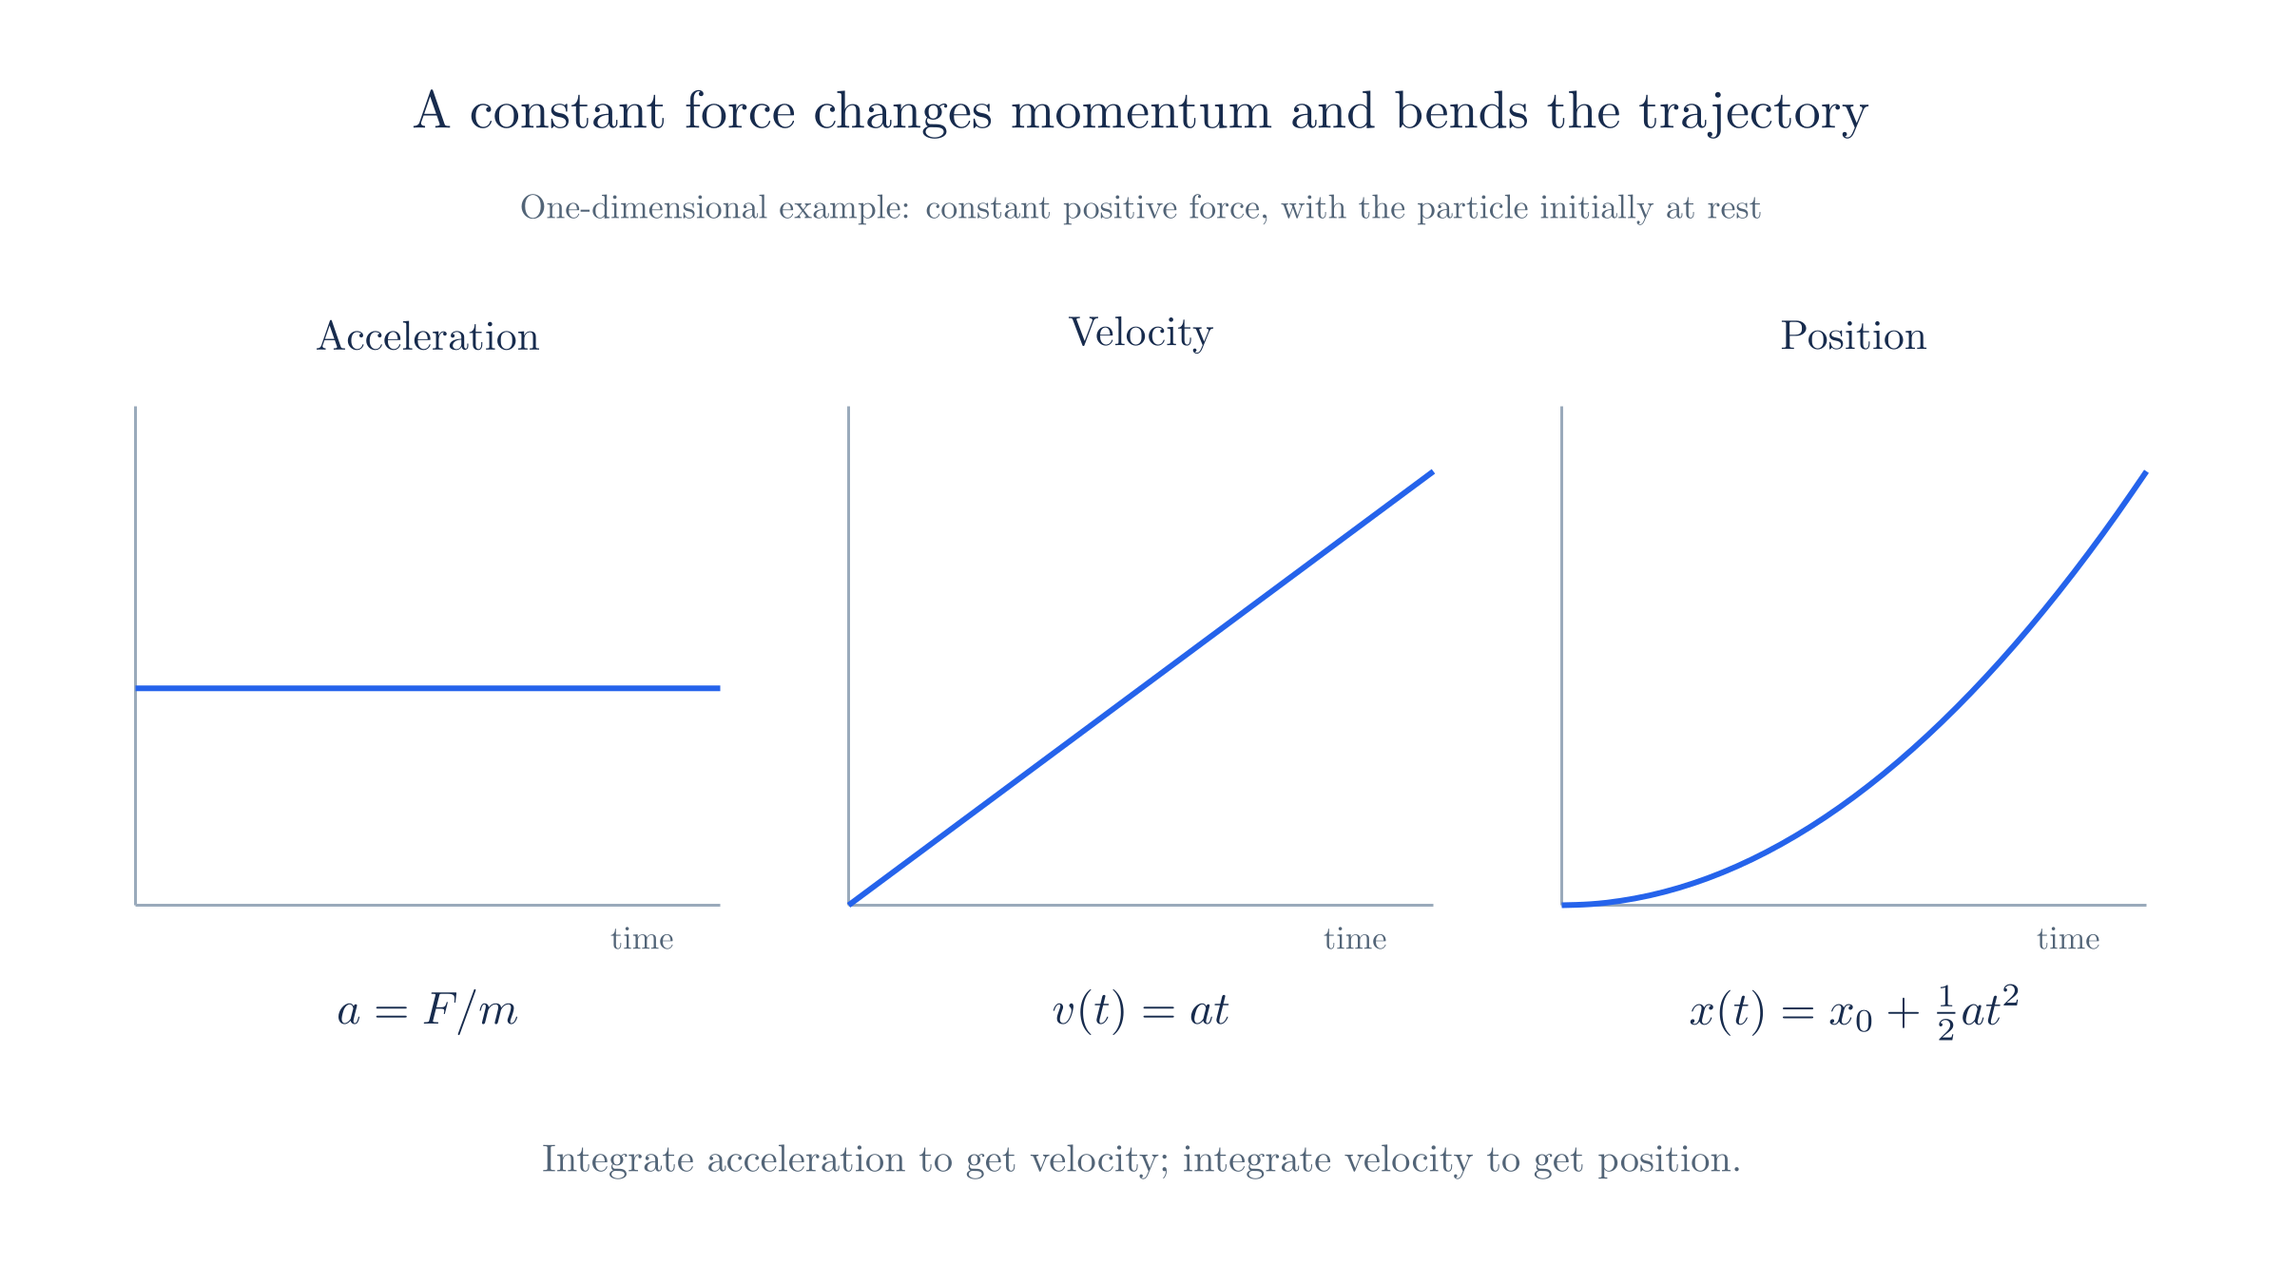
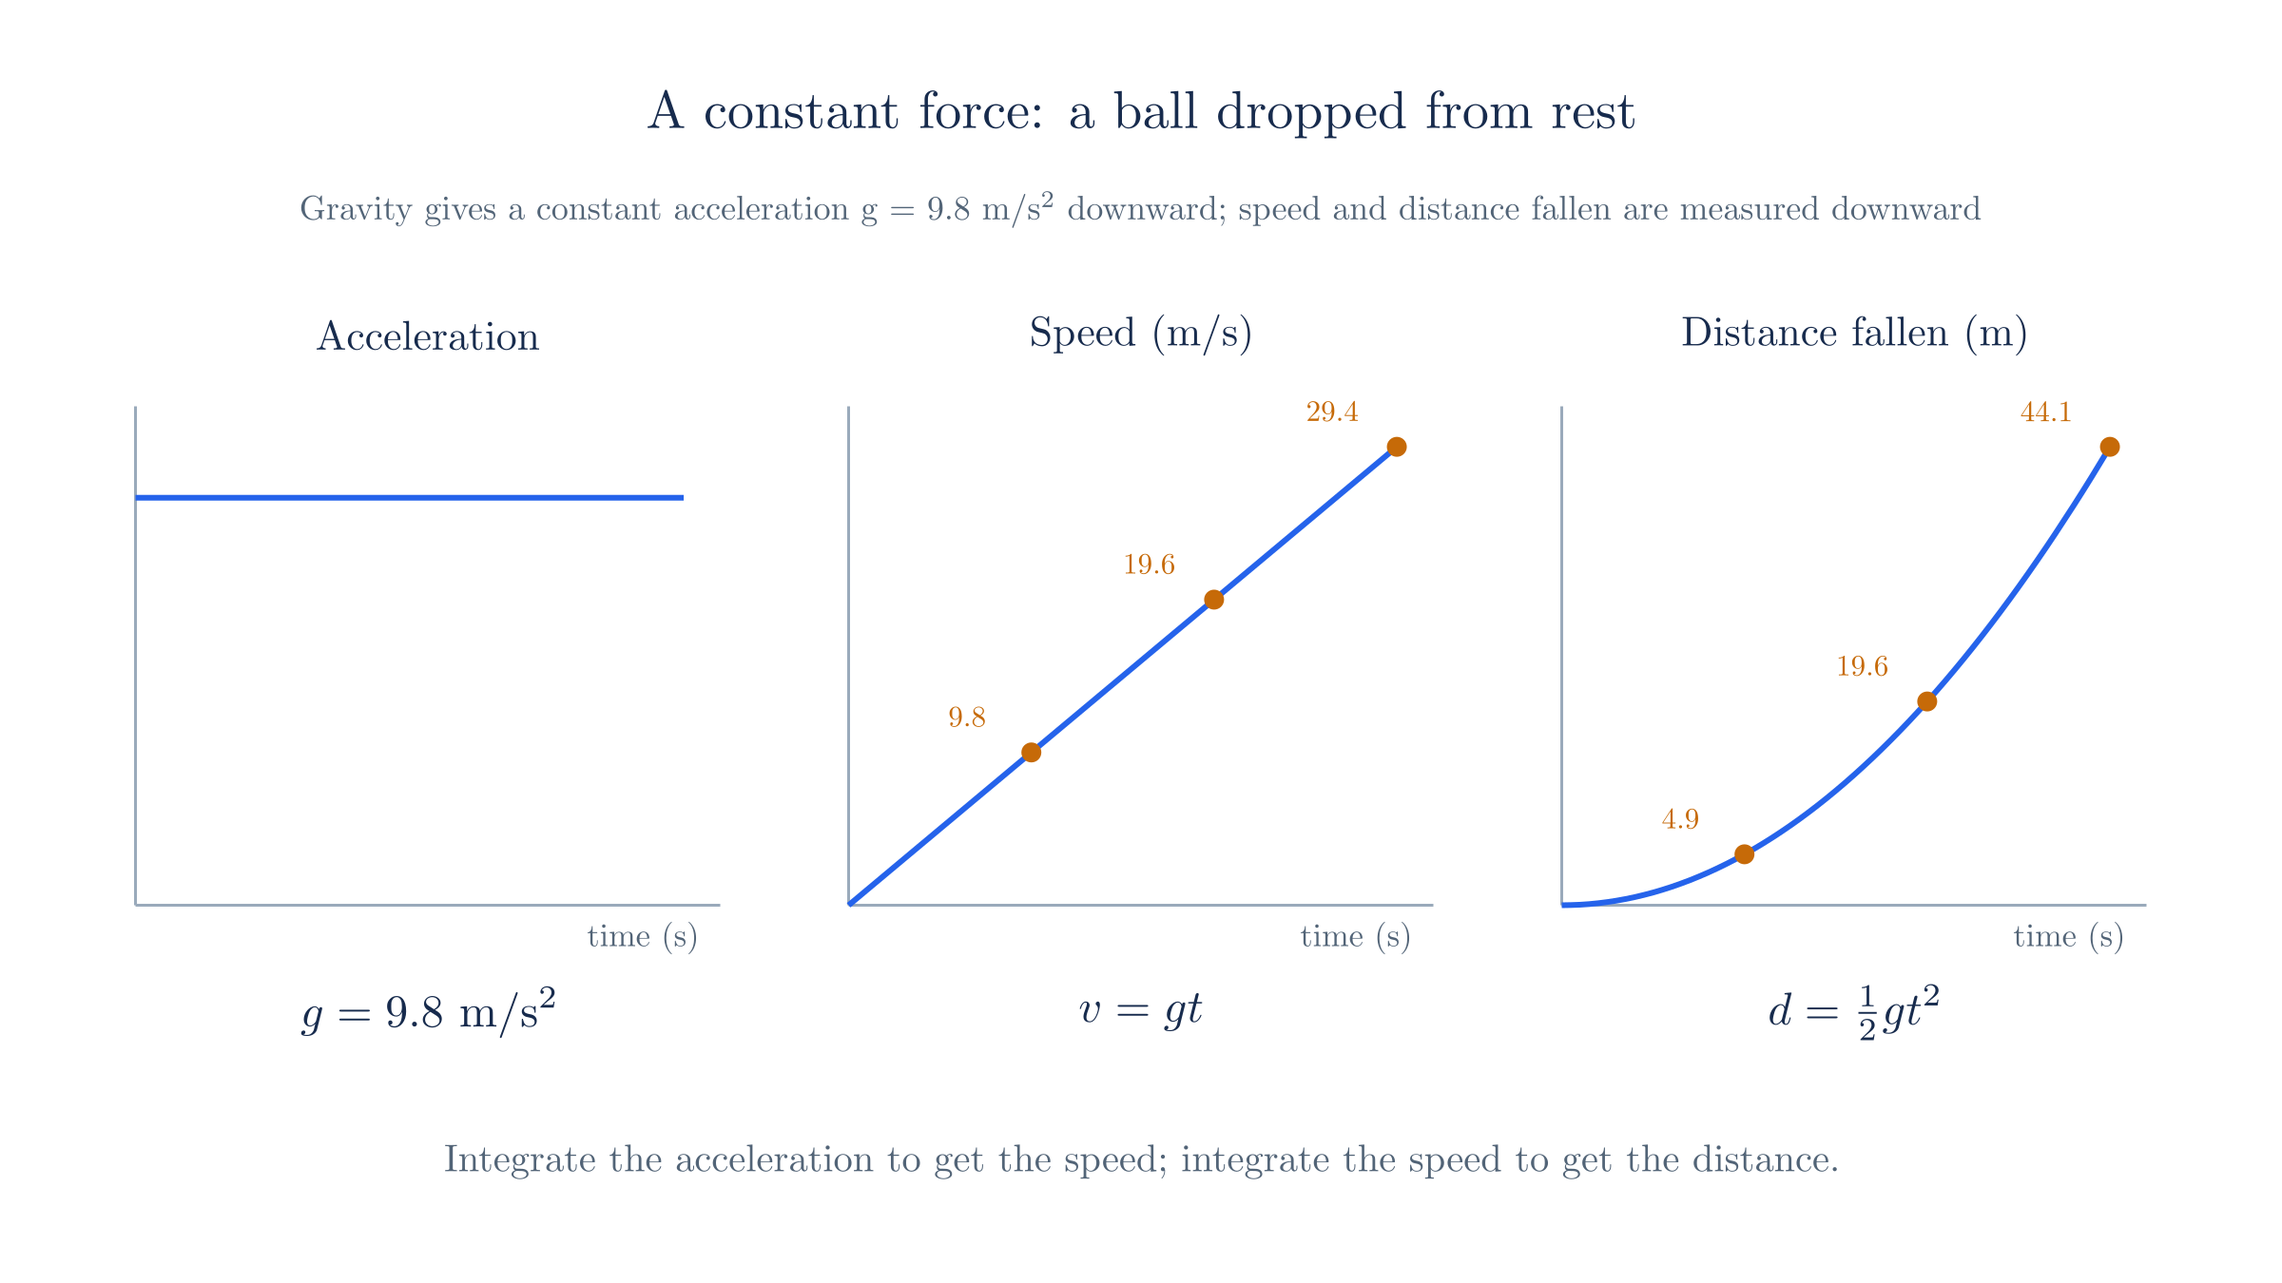
Rewrite the classical mechanics chapter around its big picture
Open with a section that compares Newton, Lagrange and Hamilton side by
side, says that all three predict the same motion, and gives the reason
for each step from one to the next. Give every idea a worked example:
a dropped ball, the action of a thrown ball on its real path and on bent
paths (with T + V alongside to show why the sign is minus), the pendulum
and double pendulum without the string tension, and a spring stepped
through phase space. Derive the Hamiltonian and the Poisson bracket
before naming them, and close with a table of where each tool returns.

Redraw the three figures to show the chapter's own examples, update the
links that point at the renamed sections, restore a missing minus sign
in the calculus appendix, and correct which chapter derives the
Euler-Lagrange equation.

diff --git a/docs/manim/page_diagrams.py b/docs/manim/page_diagrams.py
@@ -18,41 +18,57 @@ def path_curve(ax, fn, interval, color=BLUE):
 
 class NewtonMotion(Scene):
     def construct(self):
-        heading(self,'A constant force changes momentum and bends the trajectory','One-dimensional example: constant positive force, with the particle initially at rest')
-        for cx,title,fn,formula in [(-5,'Acceleration',lambda t:1,r'a=F/m'),(0,'Velocity',lambda t:t,r'v(t)=at'),(5,'Position',lambda t:0.5*t*t,r'x(t)=x_0+\tfrac12at^2')]:
-            ax=axes_at(cx,-0.1,4.1,3.5,(0,2,1),(0,2.3,1))
-            self.add(ax,path_curve(ax,fn,[0,2]),label(title,cx,2.15,28),math(formula,cx,-2.6,31),label('time',cx+1.5,-2.08,22,MUTED))
-        self.add(label('Integrate acceleration to get velocity; integrate velocity to get position.',0,-3.65,26,MUTED))
+        heading(self,'A constant force: a ball dropped from rest','Gravity gives a constant acceleration g = 9.8 m/s² downward; speed and distance fallen are measured downward')
+        g=9.8
+        panels=[(-5,'Acceleration',lambda t:g,(0,3.2,1),(0,12,4),r'g=9.8\ \mathrm{m/s^2}',[]),
+                (0,'Speed (m/s)',lambda t:g*t,(0,3.2,1),(0,32,10),r'v=gt',[(t,g*t) for t in (1,2,3)]),
+                (5,'Distance fallen (m)',lambda t:0.5*g*t*t,(0,3.2,1),(0,48,16),r'd=\tfrac12 g t^2',[(t,0.5*g*t*t) for t in (1,2,3)])]
+        for cx,title,fn,xr,yr,formula,marks in panels:
+            ax=axes_at(cx,-0.1,4.1,3.5,xr,yr)
+            self.add(ax,path_curve(ax,fn,[0,3]),label(title,cx,2.15,28),math(formula,cx,-2.6,31),label('time (s)',cx+1.5,-2.08,22,MUTED))
+            for t,v in marks:
+                pt=ax.c2p(t,v)
+                self.add(Dot(pt,color=ORANGE,radius=0.07),label(f'{v:.1f}',pt[0]-0.45,pt[1]+0.25,20,ORANGE))
+        self.add(label('Integrate the acceleration to get the speed; integrate the speed to get the distance.',0,-3.65,26,MUTED))
 
 
 class StationaryActionPaths(Scene):
     def construct(self):
-        heading(self,'Stationary action compares complete paths','Free particle with fixed endpoints; the straight path has constant velocity')
-        ax=axes_at(-4,0,6.2,4.4,(0,1,1),(0,1.2,1))
+        heading(self,'Stationary action compares complete paths','A ball thrown up and caught after 2 s, and paths bent by up to ε metres with the same endpoints')
+        ax=axes_at(-4.6,0,5.6,4.2,(0,2,1),(0,6.5,2))
         self.add(ax)
-        for e,c in [(-0.25,ORANGE),(0.25,TEAL),(0,BLUE)]:
-            self.add(path_curve(ax,lambda t,e=e:t+e*np.sin(np.pi*t),[0,1],c))
-        for t in [0,1]:self.add(Dot(ax.c2p(t,t),color=INK,radius=0.09))
-        self.add(label('time t',-1.25,-2.6,23),label('position x',-5.8,2.5,23),
-                 math(r'x_\epsilon(t)=t+\epsilon\sin(\pi t)',-4,-3.25,31),
-                 label('All paths share the endpoints.',-4,-3.9,23,MUTED))
-        ax2=axes_at(4,0,5.7,3.3,(-1,1,1),(0,2,1));self.add(ax2,path_curve(ax2,lambda e:0.4+e*e,[-1,1],PURPLE),
-                 label('Action S',2,2.15,25,PURPLE),label('path variation ε',4,-2.2,24),
-                 math(r'\left.\frac{dS}{d\epsilon}\right|_{\epsilon=0}=0',4,-3,34,PURPLE),
-                 label('Here the stationary action is a minimum.',4,-3.8,22,MUTED,width=6.8))
+        real=lambda t:9.8*t-4.9*t*t
+        for e,c in [(-0.5,ORANGE),(0.5,TEAL),(0,BLUE)]:
+            self.add(path_curve(ax,lambda t,e=e:real(t)+e*np.sin(np.pi*t/2),[0,2],c))
+        for t in [0,2]:self.add(Dot(ax.c2p(t,0),color=INK,radius=0.09))
+        self.add(label('time t (s)',-2.2,-2.5,23),label('height x (m)',-6.3,2.45,23),
+                 label('ε = +0.5',-0.6,1.6,21,TEAL),label('real path, ε = 0',-0.6,1.15,21,BLUE),label('ε = −0.5',-0.6,0.7,21,ORANGE),
+                 math(r'x(t)=9.8\,t-4.9\,t^2+\epsilon\sin(\pi t/2)',-4.3,-3.2,30),
+                 label('All paths leave and return at the same moments.',-4.3,-3.85,22,MUTED))
+        top=axes_at(4,1.15,5.2,1.7,(-0.5,0.5,0.5),(-32.05,-31.65,0.2))
+        bot=axes_at(4,-1.65,5.2,1.7,(-0.5,0.5,0.5),(80,112,10))
+        sa=lambda e:-32.0133+1.2337*e*e
+        sb=lambda e:96.04+24.955*e+1.2337*e*e
+        self.add(top,path_curve(top,sa,[-0.5,0.5],PURPLE),bot,path_curve(bot,sb,[-0.5,0.5],ORANGE))
+        for e in (-0.5,-0.2,0,0.2,0.5):
+            self.add(Dot(top.c2p(e,sa(e)),color=PURPLE,radius=0.06),Dot(bot.c2p(e,sb(e)),color=ORANGE,radius=0.06))
+        self.add(label('Action of T − V: flat at ε = 0',4,2.35,23,PURPLE),
+                 label('Total of T + V: still sloping at ε = 0',4,-0.45,23,ORANGE),
+                 label('bend ε (m)',6.1,-2.85,20,MUTED),
+                 label('Values from the table in the text',4,-3.55,21,MUTED))
 
 
 class PhaseSpaceStates(Scene):
     def construct(self):
-        heading(self,'Position alone does not specify a classical state','Two oscillators can pass the same position while moving in opposite directions')
-        ax=axes_at(-4,0,5.4,4.5,(-1.4,1.4,1),(-1.4,1.4,1));self.add(ax)
+        heading(self,'Position alone does not specify the state','The spring passes the middle twice in each swing, moving in opposite directions')
+        ax=axes_at(-4,0,5.4,4.5,(-1.4,1.4,1),(-2.8,2.8,1));self.add(ax)
         self.add(Ellipse(width=5.4/1.4,height=4.5/1.4,color=BLUE).move_to(ax.c2p(0,0)))
-        for y,c,tag in [(1,TEAL,'A: moving right'),(-1,ORANGE,'B: moving left')]:
-            pt=ax.c2p(0,y);self.add(Dot(pt,color=c,radius=.11),label(tag,pt[0]+1.9,pt[1],23,c,width=3.1))
-        self.add(label('momentum p',-5.5,2.65,24),label('position x',-1.8,-.4,23),
-                 box(4,0,6,3.5),math(r'A=(0,+p_0)',4,.9,38,TEAL),math(r'B=(0,-p_0)',4,-.1,38,ORANGE),
+        for y,c,tag in [(2,TEAL,'D: moving right'),(-2,ORANGE,'B: moving left')]:
+            pt=ax.c2p(0,y);self.add(Dot(pt,color=c,radius=.11),label(tag,pt[0]+2.4,pt[1]+(0.45 if y>0 else -0.45),23,c,width=3.1))
+        self.add(label('momentum p',-5.6,2.65,24),label('position x',-1.2,-0.7,23),
+                 box(4,0,6,3.5),math(r'D=(0,\,+2)',4,.9,38,TEAL),math(r'B=(0,\,-2)',4,-.1,38,ORANGE),
                  label('Same position. Different states.',4,-1.1,25),
-                 label('A point in phase space specifies both position and momentum.',0,-3.5,28,MUTED))
+                 label('Points B and D of the spring table: a point in phase space specifies both position and momentum.',0,-3.5,25,MUTED,width=15))
 
 
 class BornDensity(Scene):

diff --git a/docs/qft-action.md b/docs/qft-action.md
@@ -6,7 +6,7 @@ The [Quantum Field Theory page](qft.md) introduced field operators. We now need 
 
 ## Principle of Least Action
 
-To derive dynamics for the fields introduced on the [previous page](qft.md), begin with the particle construction in [Classical Mechanics §2](classical-mechanics.md#_2-lagrangian-and-the-euler-lagrange-derivation). For a path $q(t)$, define the **action**
+To derive dynamics for the fields introduced on the [previous page](qft.md), begin with the particle construction in [Classical Mechanics §3](classical-mechanics.md#_3-one-number-for-a-whole-path-the-action). For a path $q(t)$, define the **action**
 
 $$S[q] = \int_{t_1}^{t_2} L(q, \dot q)\,dt, \qquad L = T - V,$$
 
@@ -57,7 +57,7 @@ This is the **Euler–Lagrange equation for a field**. The particle's time deriv
 
 For the scalar, vector, and spinor fields in the [Fields section](qft.md#fields), we will use the simplest standard free-field densities: $\tfrac12(\partial_\mu\phi)(\partial^\mu\phi)-\tfrac{m^2}{2\hbar^2}\phi^2$, $-\tfrac14F^{\mu\nu}F_{\mu\nu}$, and $\bar\psi(i\hbar\gamma^\mu\partial_\mu-m)\psi$. Their variations give the Klein–Gordon, source-free Maxwell, and Dirac equations.
 
-To construct the Hamiltonian, follow [Classical Mechanics §3](classical-mechanics.md#_3-hamiltonian-and-state-space). Define the momentum density conjugate to the field, $\pi(t,\mathbf x)=\partial\mathcal L/\partial\dot\phi$, and take the Legendre transform:
+To construct the Hamiltonian, follow [Classical Mechanics §6](classical-mechanics.md#_6-energy-moves-the-point-the-hamiltonian). Define the momentum density conjugate to the field, $\pi(t,\mathbf x)=\partial\mathcal L/\partial\dot\phi$, and take the Legendre transform:
 
 $$\mathcal{H} = \pi\,\dot\phi - \mathcal{L}, \qquad H = \int d^3x\;\mathcal{H},$$
 
@@ -73,7 +73,7 @@ A boosted observer uses different time slices and hence different functions $(\p
 
 ### The geometry of H
 
-A point in **state space** specifies the system at one instant, as in [Classical Mechanics §3](classical-mechanics.md#_3-hamiltonian-and-state-space). For a particle it is the pair $(q,p)$. For a field it is the pair of functions $(\phi(\mathbf x),\pi(\mathbf x))$, with one conjugate pair at each spatial point. This state space is infinite-dimensional.
+A point in **state space** specifies the system at one instant, as in [Classical Mechanics §5](classical-mechanics.md#_5-a-state-as-a-point-position-and-momentum). For a particle it is the pair $(q,p)$. For a field it is the pair of functions $(\phi(\mathbf x),\pi(\mathbf x))$, with one conjugate pair at each spatial point. This state space is infinite-dimensional.
 
 The Hamiltonian $H=\int d^3x\,\mathcal H$ assigns an energy to each configuration. Hamilton's equations give its evolution, $\dot\phi=\delta H/\delta\pi$ and $\dot\pi=-\delta H/\delta\phi$. Here a **functional derivative** measures how $H$ changes when we vary the field function locally.
 
@@ -85,7 +85,7 @@ The Hamiltonian has two related roles. It is the **energy**, conserved when ther
 
 After quantization, Heisenberg evolution takes the form $\hat\phi(t)=e^{i\hat Ht/\hbar}\hat\phi(0)e^{-i\hat Ht/\hbar}$ from the [Fields section](qft.md#fields). This is the operator version of classical Hamiltonian evolution.
 
-**Quantization also changes the algebra.** [Classical Mechanics §4](classical-mechanics.md#_4-the-poisson-bracket) expressed evolution through the Poisson bracket, $\dot F=\{F,H\}$ for an observable with no explicit time dependence. [First Quantization](first-quantization.md) introduced its canonical quantum replacement, $\{\cdot,\cdot\}\to[\hat{\cdot},\hat{\cdot}]/(i\hbar)$, giving $[\hat x,\hat p]=i\hbar$.
+**Quantization also changes the algebra.** [Classical Mechanics §7](classical-mechanics.md#_7-how-any-quantity-changes-the-poisson-bracket) expressed evolution through the Poisson bracket, $\dot F=\{F,H\}$ for an observable with no explicit time dependence. [First Quantization](first-quantization.md) introduced its canonical quantum replacement, $\{\cdot,\cdot\}\to[\hat{\cdot},\hat{\cdot}]/(i\hbar)$, giving $[\hat x,\hat p]=i\hbar$.
 
 Apply that prescription to the conjugate fields at equal time. We get $[\hat\phi(t,\mathbf x),\hat\pi(t,\mathbf x')]=i\hbar\delta^3(\mathbf x-\mathbf x')$. The delta function expresses the local pairing of field and momentum. Expanding in oscillator modes then gives $[\hat a(\mathbf k),\hat a^\dagger(\mathbf k')]\propto\delta^3(\mathbf k-\mathbf k')$.
 
@@ -294,7 +294,7 @@ Both terms now have the form $\bar\psi(\cdots)\psi$ and are Lorentz scalars. We 
 
 **Vary $\psi$ and $\bar\psi$ separately.** For a complex field, varying its real and imaginary parts is equivalent to treating the field and its complex conjugate as independent variables during differentiation. Since $\bar\psi=\psi^\dagger\gamma^0$ differs from the conjugate by an invertible constant matrix, we can use $\psi$ and $\bar\psi$ instead.
 
-This is a choice of variables in the variational calculation. We then apply the Euler–Lagrange method introduced in [Classical Mechanics §2](classical-mechanics.md#_2-lagrangian-and-the-euler-lagrange-derivation) to each component.
+This is a choice of variables in the variational calculation. We then apply the Euler–Lagrange method introduced in [Classical Mechanics §4](classical-mechanics.md#_4-from-stationary-action-to-an-equation-of-motion) to each component.
 
 Start with $\bar\psi$. There is no derivative of $\bar\psi$ in this density, so its Euler–Lagrange equation reduces to
 

diff --git a/docs/appendix-math-calculus.md b/docs/appendix-math-calculus.md
@@ -26,7 +26,7 @@ We use the curly $\partial$ to distinguish this from a full derivative $\frac{d}
 
 $$\frac{\partial L}{\partial \dot q}=m\dot q, \qquad \frac{\partial L}{\partial q}=-V'(q).$$
 
-Both derivatives appear in the Euler–Lagrange equation on [Classical Mechanics](classical-mechanics.md#_2-lagrangian-and-the-euler-lagrange-derivation):
+Both derivatives appear in the Euler–Lagrange equation on [Classical Mechanics](classical-mechanics.md#_4-from-stationary-action-to-an-equation-of-motion):
 
 $$\frac{d}{dt}\left(\frac{\partial L}{\partial \dot q}\right) - \frac{\partial L}{\partial q} = 0.$$
 
@@ -54,7 +54,7 @@ $$\int_a^b u\,\frac{dv}{dt}\,dt = \big[u v\big]_a^b - \int_a^b v\,\frac{du}{dt}\
 
 where $[uv]_a^b = u(b)v(b)-u(a)v(a)$ is the **boundary term**.
 
-**Example.** In the variation of the action, the velocity term is $\int \frac{\partial L}{\partial\dot q}\,\frac{d}{dt}(\delta q)\,dt$. Taking $u=\frac{\partial L}{\partial\dot q}$ and $v=\delta q$ moves the derivative onto $u$. The boundary term vanishes because the variation $\delta q$ is chosen to be zero at the endpoints. What remains is $\int\left(\frac{d}{dt}\frac{\partial L}{\partial\dot q}\right)\delta q\,dt$, which produces the Euler–Lagrange equation. The same step runs over every spacetime direction when deriving the [field equation](qft-action.md).
+**Example.** In the variation of the action, the velocity term is $\int \frac{\partial L}{\partial\dot q}\,\frac{d}{dt}(\delta q)\,dt$. Taking $u=\frac{\partial L}{\partial\dot q}$ and $v=\delta q$ moves the derivative onto $u$. The boundary term vanishes because the variation $\delta q$ is chosen to be zero at the endpoints. What remains is $-\int\left(\frac{d}{dt}\frac{\partial L}{\partial\dot q}\right)\delta q\,dt$, which produces the Euler–Lagrange equation. The same step runs over every spacetime direction when deriving the [field equation](qft-action.md).
 
 ## 5. Taylor expansion
 

diff --git a/docs/lagrangian-to-experiment.md b/docs/lagrangian-to-experiment.md
@@ -8,7 +8,7 @@ We have built Lagrangians for free fields and, in [QED](qed.md), their interacti
 
 ## From trajectories to transition amplitudes
 
-The classical use of a Lagrangian is to compute a trajectory. The [Classical Mechanics](classical-mechanics.md) page introduced stationary action, and [Action and Lagrangians](qft-action.md) derived the Euler–Lagrange equation. Insert $L(q, \dot q)$ into that equation, then solve for the trajectory $q(t)$. Initial conditions specify which trajectory occurs, and differentiating it gives the velocity $\dot q(t)$.
+The classical use of a Lagrangian is to compute a trajectory. The [Classical Mechanics](classical-mechanics.md) page introduced stationary action and derived the Euler–Lagrange equation, and [Action and Lagrangians](qft-action.md) applied it to fields. Insert $L(q, \dot q)$ into that equation, then solve for the trajectory $q(t)$. Initial conditions specify which trajectory occurs, and differentiating it gives the velocity $\dot q(t)$.
 
 A trajectory is the wrong target in quantum mechanics. We predict probabilities for measurement outcomes: [First Quantization](first-quantization.md) introduced the wave function $\psi$, whose squared magnitude gives a position probability density. [Field Quantization](field-quantization.md) also permits particle creation and annihilation. We therefore calculate an amplitude for each possible final collection of particles. The quantum calculation takes us from the Lagrangian to **transition amplitudes**.
 

diff --git a/docs/first-quantization.md b/docs/first-quantization.md
@@ -122,7 +122,7 @@ We now have the ingredients for an energy-level calculation: a state, a Hamilton
 
 ---
 
-Previous: [Lesson 01a — Classical Mechanics](./classical-mechanics.md)
+Previous: [Classical Mechanics](./classical-mechanics.md)
 
 Next: [The Harmonic Oscillator](./harmonic-oscillator.md)
 
